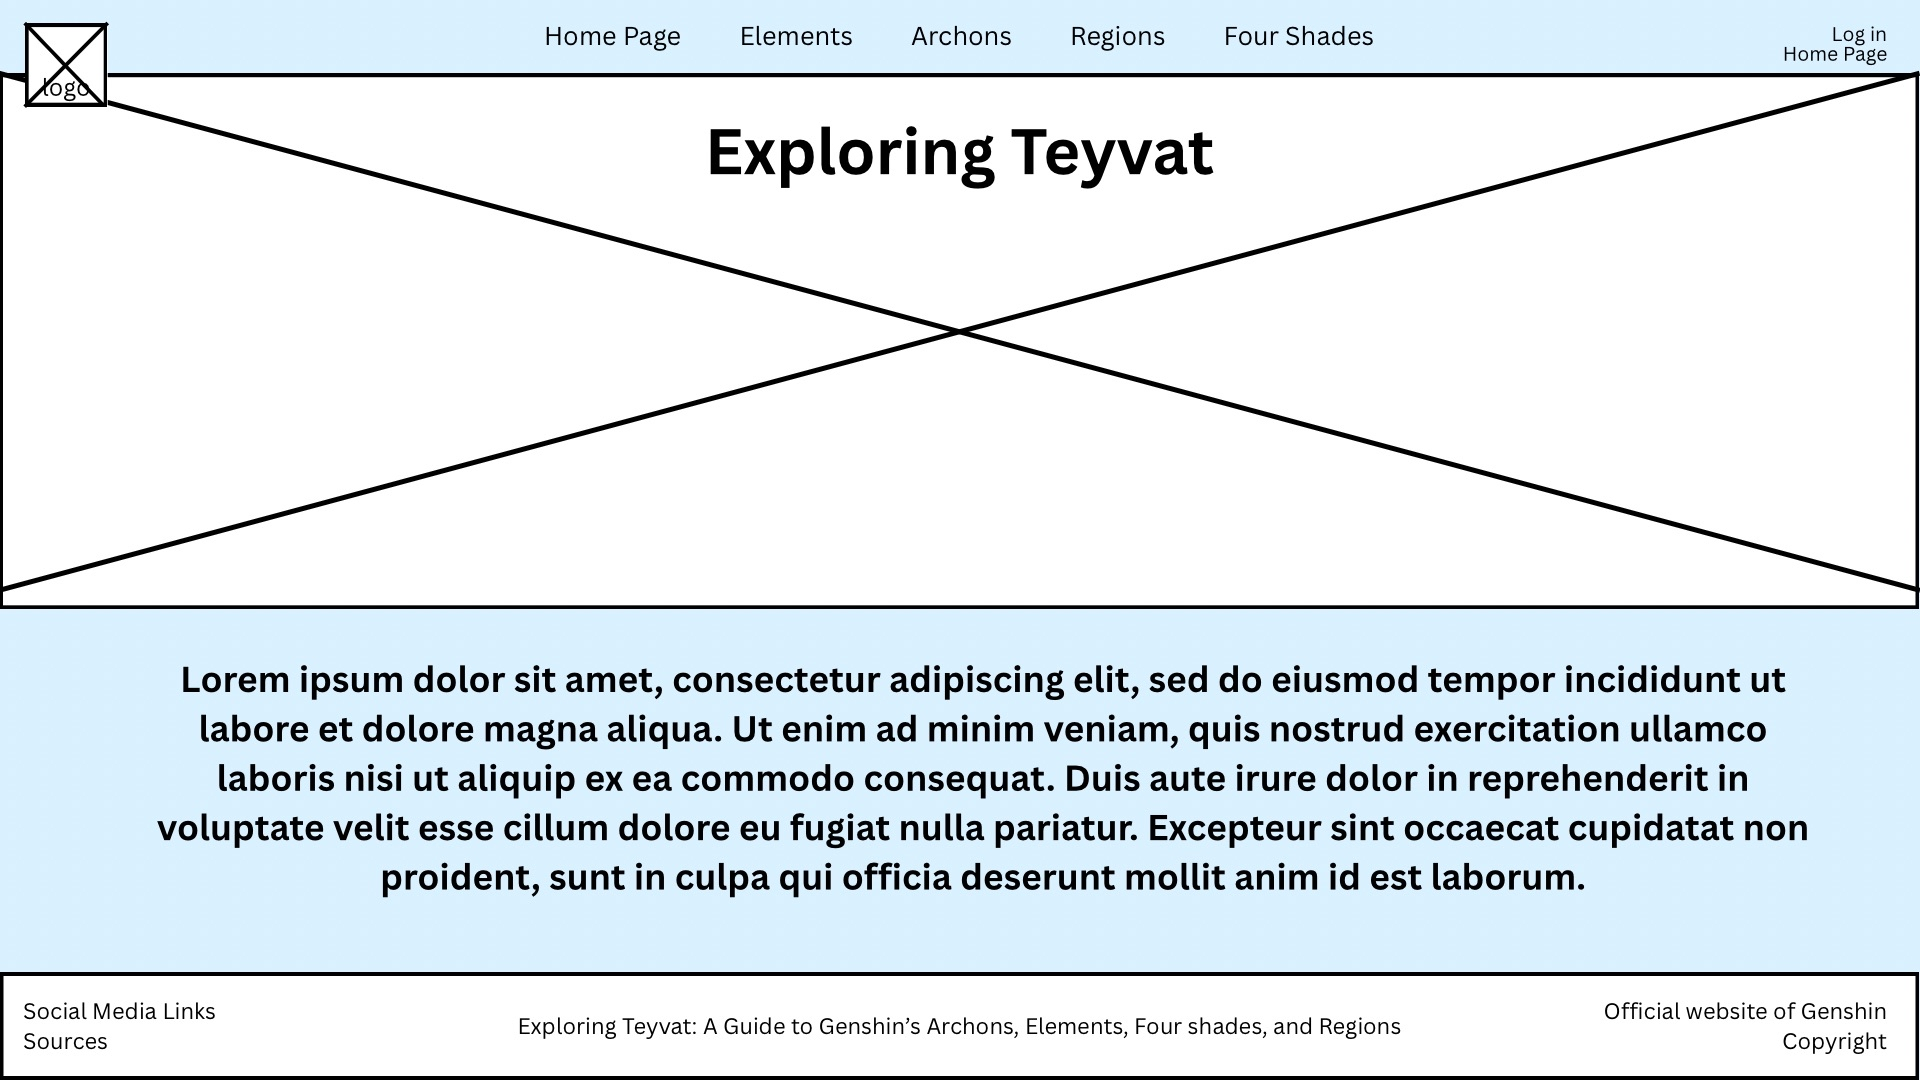
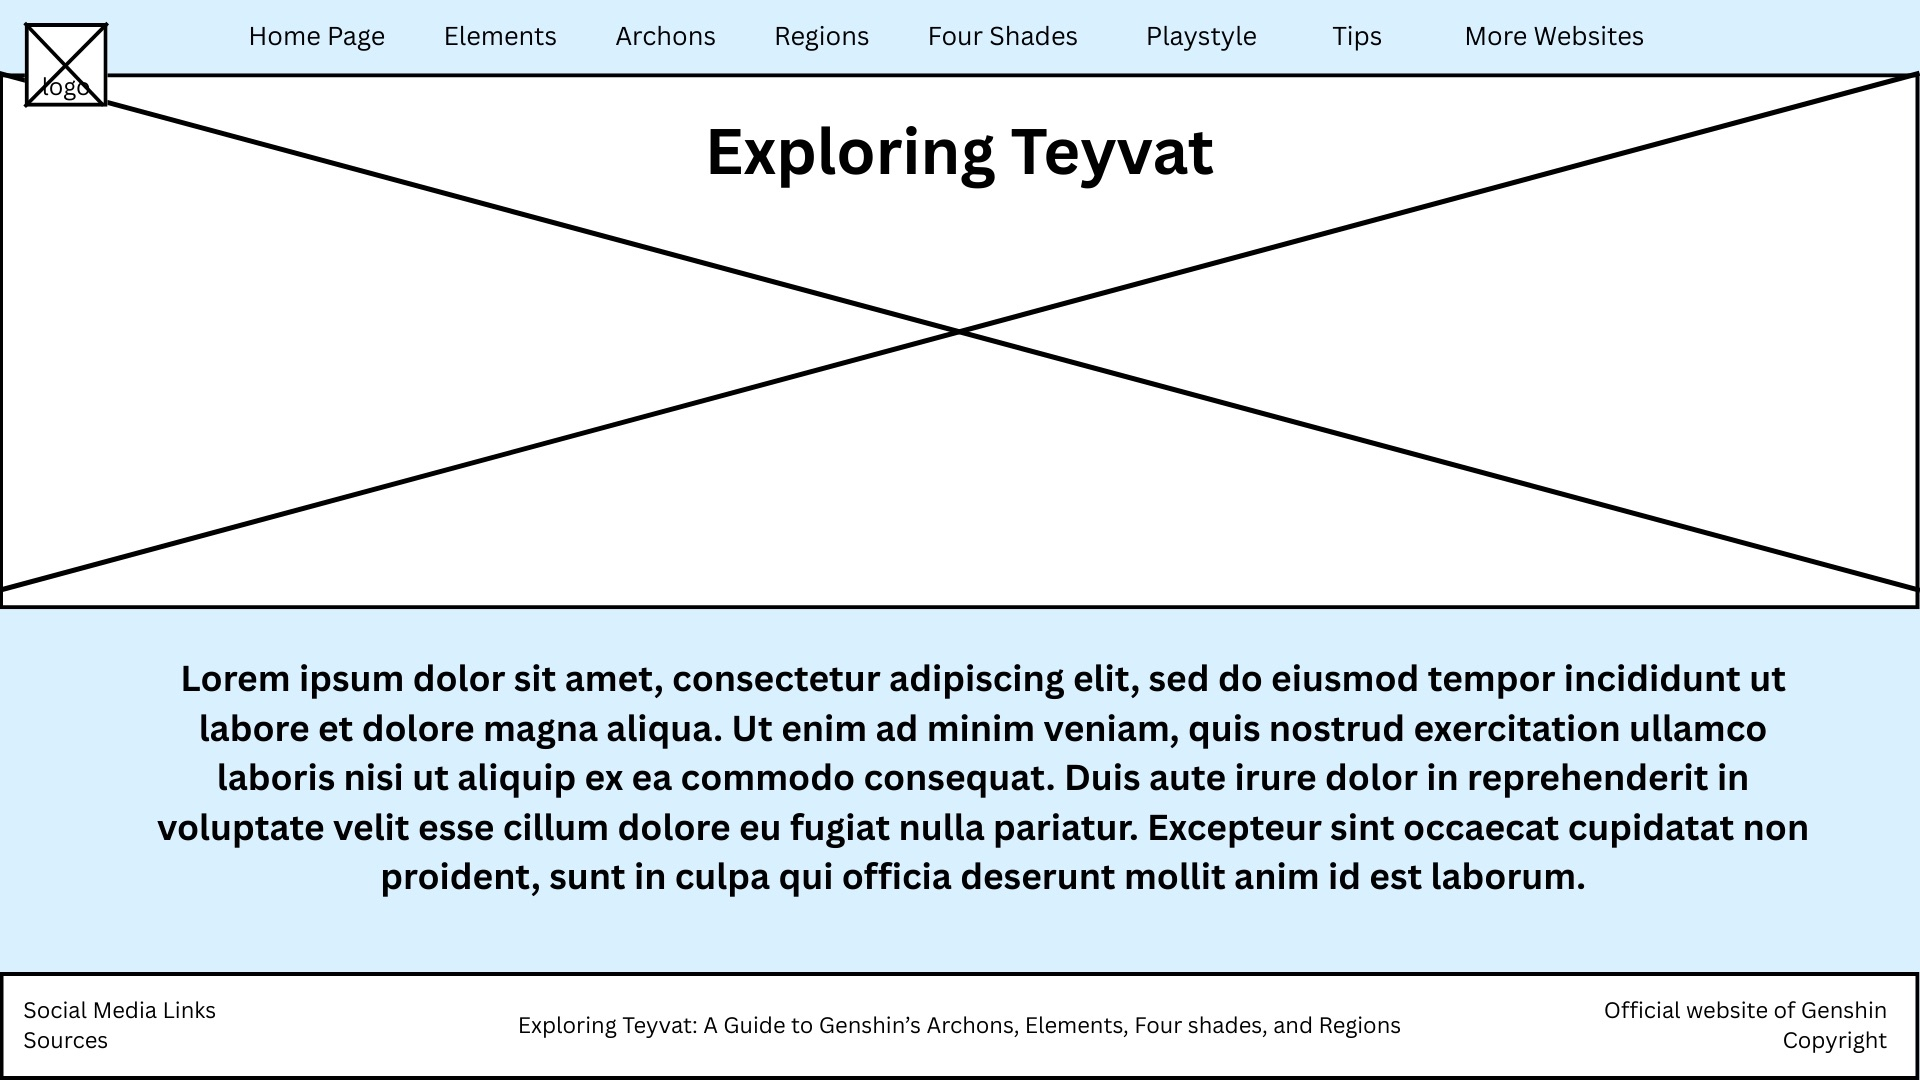
updated project proposal

diff --git a/README.md b/README.md
@@ -46,25 +46,41 @@
 - Theories and interpretations from the lore community
 - Visuals such as images, symbols, and more will be used
 
-### Description of how JS will be incorporated:
-### JavaScript will be used to create an interactive login feature that appears on every page of the website. In the top-right corner of each page, there will be a “Log In” button. When a user clicks this button, a small pop-up or modal window will appear, allowing them to enter their username and password. Once the user submits their information, JavaScript will check the input (for example, ensuring that both fields are filled in). If the user successfully logs in, the JavaScript code will update the website’s interface to replace the “Log In” button with the user’s profile picture or avatar.
+### VI. Page 6. - Playstyle
+#### This page talks about the playstyle of the game, how the controls works—generally just making the players be more familiar about how the game works. This page provides:
+- A GIF showing an example of one of the playstyle (ex. the character gliding down)
+- Descriptions of the playstyle
+- The implementation of the HTML form
+- the HTML will disappear after the user chooses, but when the user comes back to this page from another page, the question will reappear again just in case the user chooses another option.
+
+### VII. Page 7 - Tips
+#### This page provides gameplay tips for the user to help them get better at the game. This page provides:
+- An image that came from the game
+- Content/Descriptions on how to get better, the content also depends wether the user picks beginner or advanced from the HTML form from the previous page
+
+### VII. Page 8 - More Websites
+#### This page shows more websites to help the user improve more on the game. This page provides:
+- Descriptions of what the websites includes and how it would help them
+- Buttons that would redirect the users to the website
+- The content depends on wether the user picks beginner or advanced from the Playstyle Page
+- The amount of content displayed depends on the choice of the user, this is just an example
+
+### Purpose and Use of the HTML Form:
+### The form will ask the question "Are you a beginner or an advanced player?” and allow users to select between two options: Beginner or Advanced using buttons. The purpose of this form is to personalize the website’s content based on the user’s familiarity with the game. By identifying whether the user is a beginner or an advanced player, the website can display information that is more appropriate and relevant to the user’s level of experience. This prevents users from being overwhelmed with content that may not match their skill level.
 #### This feature will make use of JavaScript to:
-- Handle input and output (user credentials and interface updates)
-- Manage user state (logged in or logged out)
-- Dynamically change the content displayed on the webpage without reloading the page
+- JavaScript will be used to handle the form submission, store the user’s selected experience level, and retrieve the saved data on other webpages
+- On other webpages of the website, JavaScript will retrieve the stored experience level and use conditional statements to determine what content should be displayed. For example, beginner users will see simplified explanations and basic gameplay information, while advanced users will be shown more detailed and optimized content.
+- JavaScript will also be used to dynamically update page text and sections based on the stored data.
 ******
 ### Wireframes:
 #### Page 1 (Home page):
 #### ![Home page](images/page1.png)
 
-#### Page 1 Expanded (Home page):
-#### ![Home page expanded](images/page1expanded.png)
-
 #### Page 2 (Elements page):
 #### ![Elements page](images/page2.png)
 
 #### Page 2 Expanded (Elements page):
-#### ![Elements page expanded](images/page2expanded.png)
+#### ![Elements page expanded](images/page2e.png)
 
 #### Page 3 (Archons page)
 #### ![Archons page](images/page3.png)
@@ -73,7 +89,16 @@
 #### ![Regions page](images/page4.png)
 
 #### Page 4 Expanded (Regions)
-#### ![Regions page expanded](images/page4expanded.png)
+#### ![Regions page expanded](images/page4e.png)
 
 #### Page 5 (The Four Shades page)
 #### ![Four shades page](images/page5.png)
+
+#### Page 6 (Playstyle)
+#### ![Playstyle page](images/page6.png)
+
+#### Page 7 (Gameplay Tips)
+#### ![Gameplay Tips page](images/page7.png)
+
+#### Page 8 (More Websites)
+#### ![More websites to helppage](images/page8.png)
